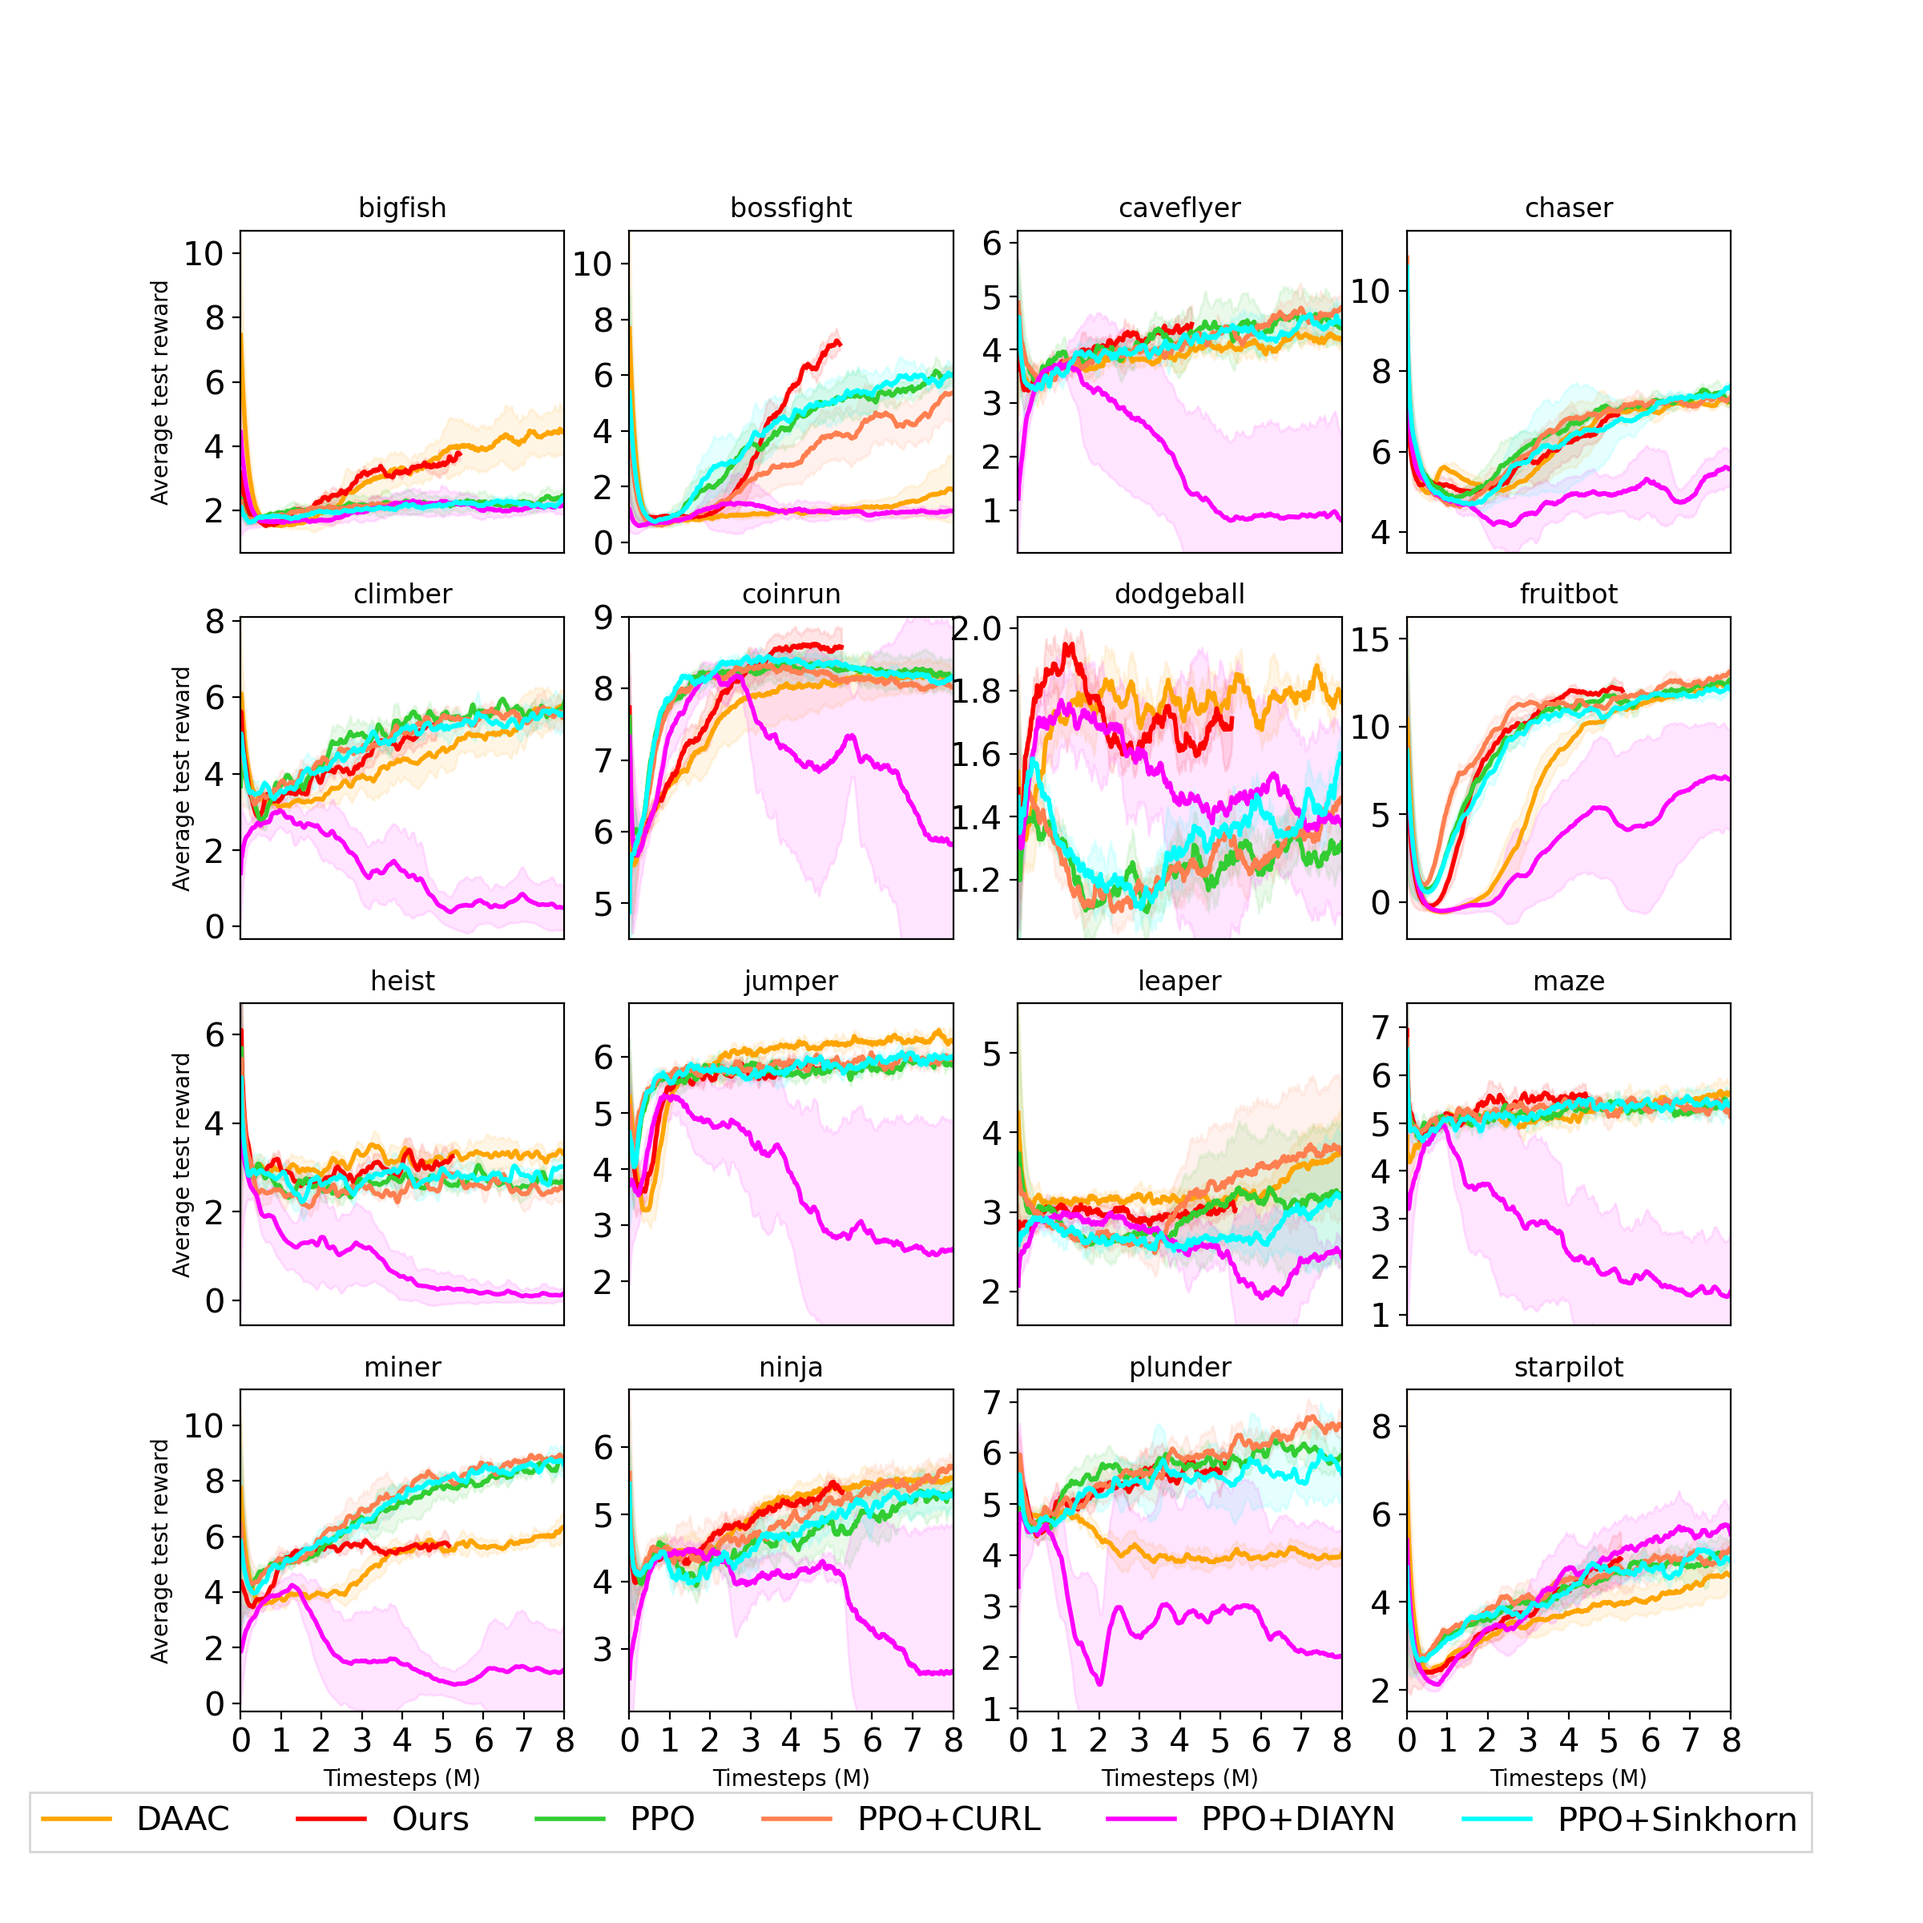
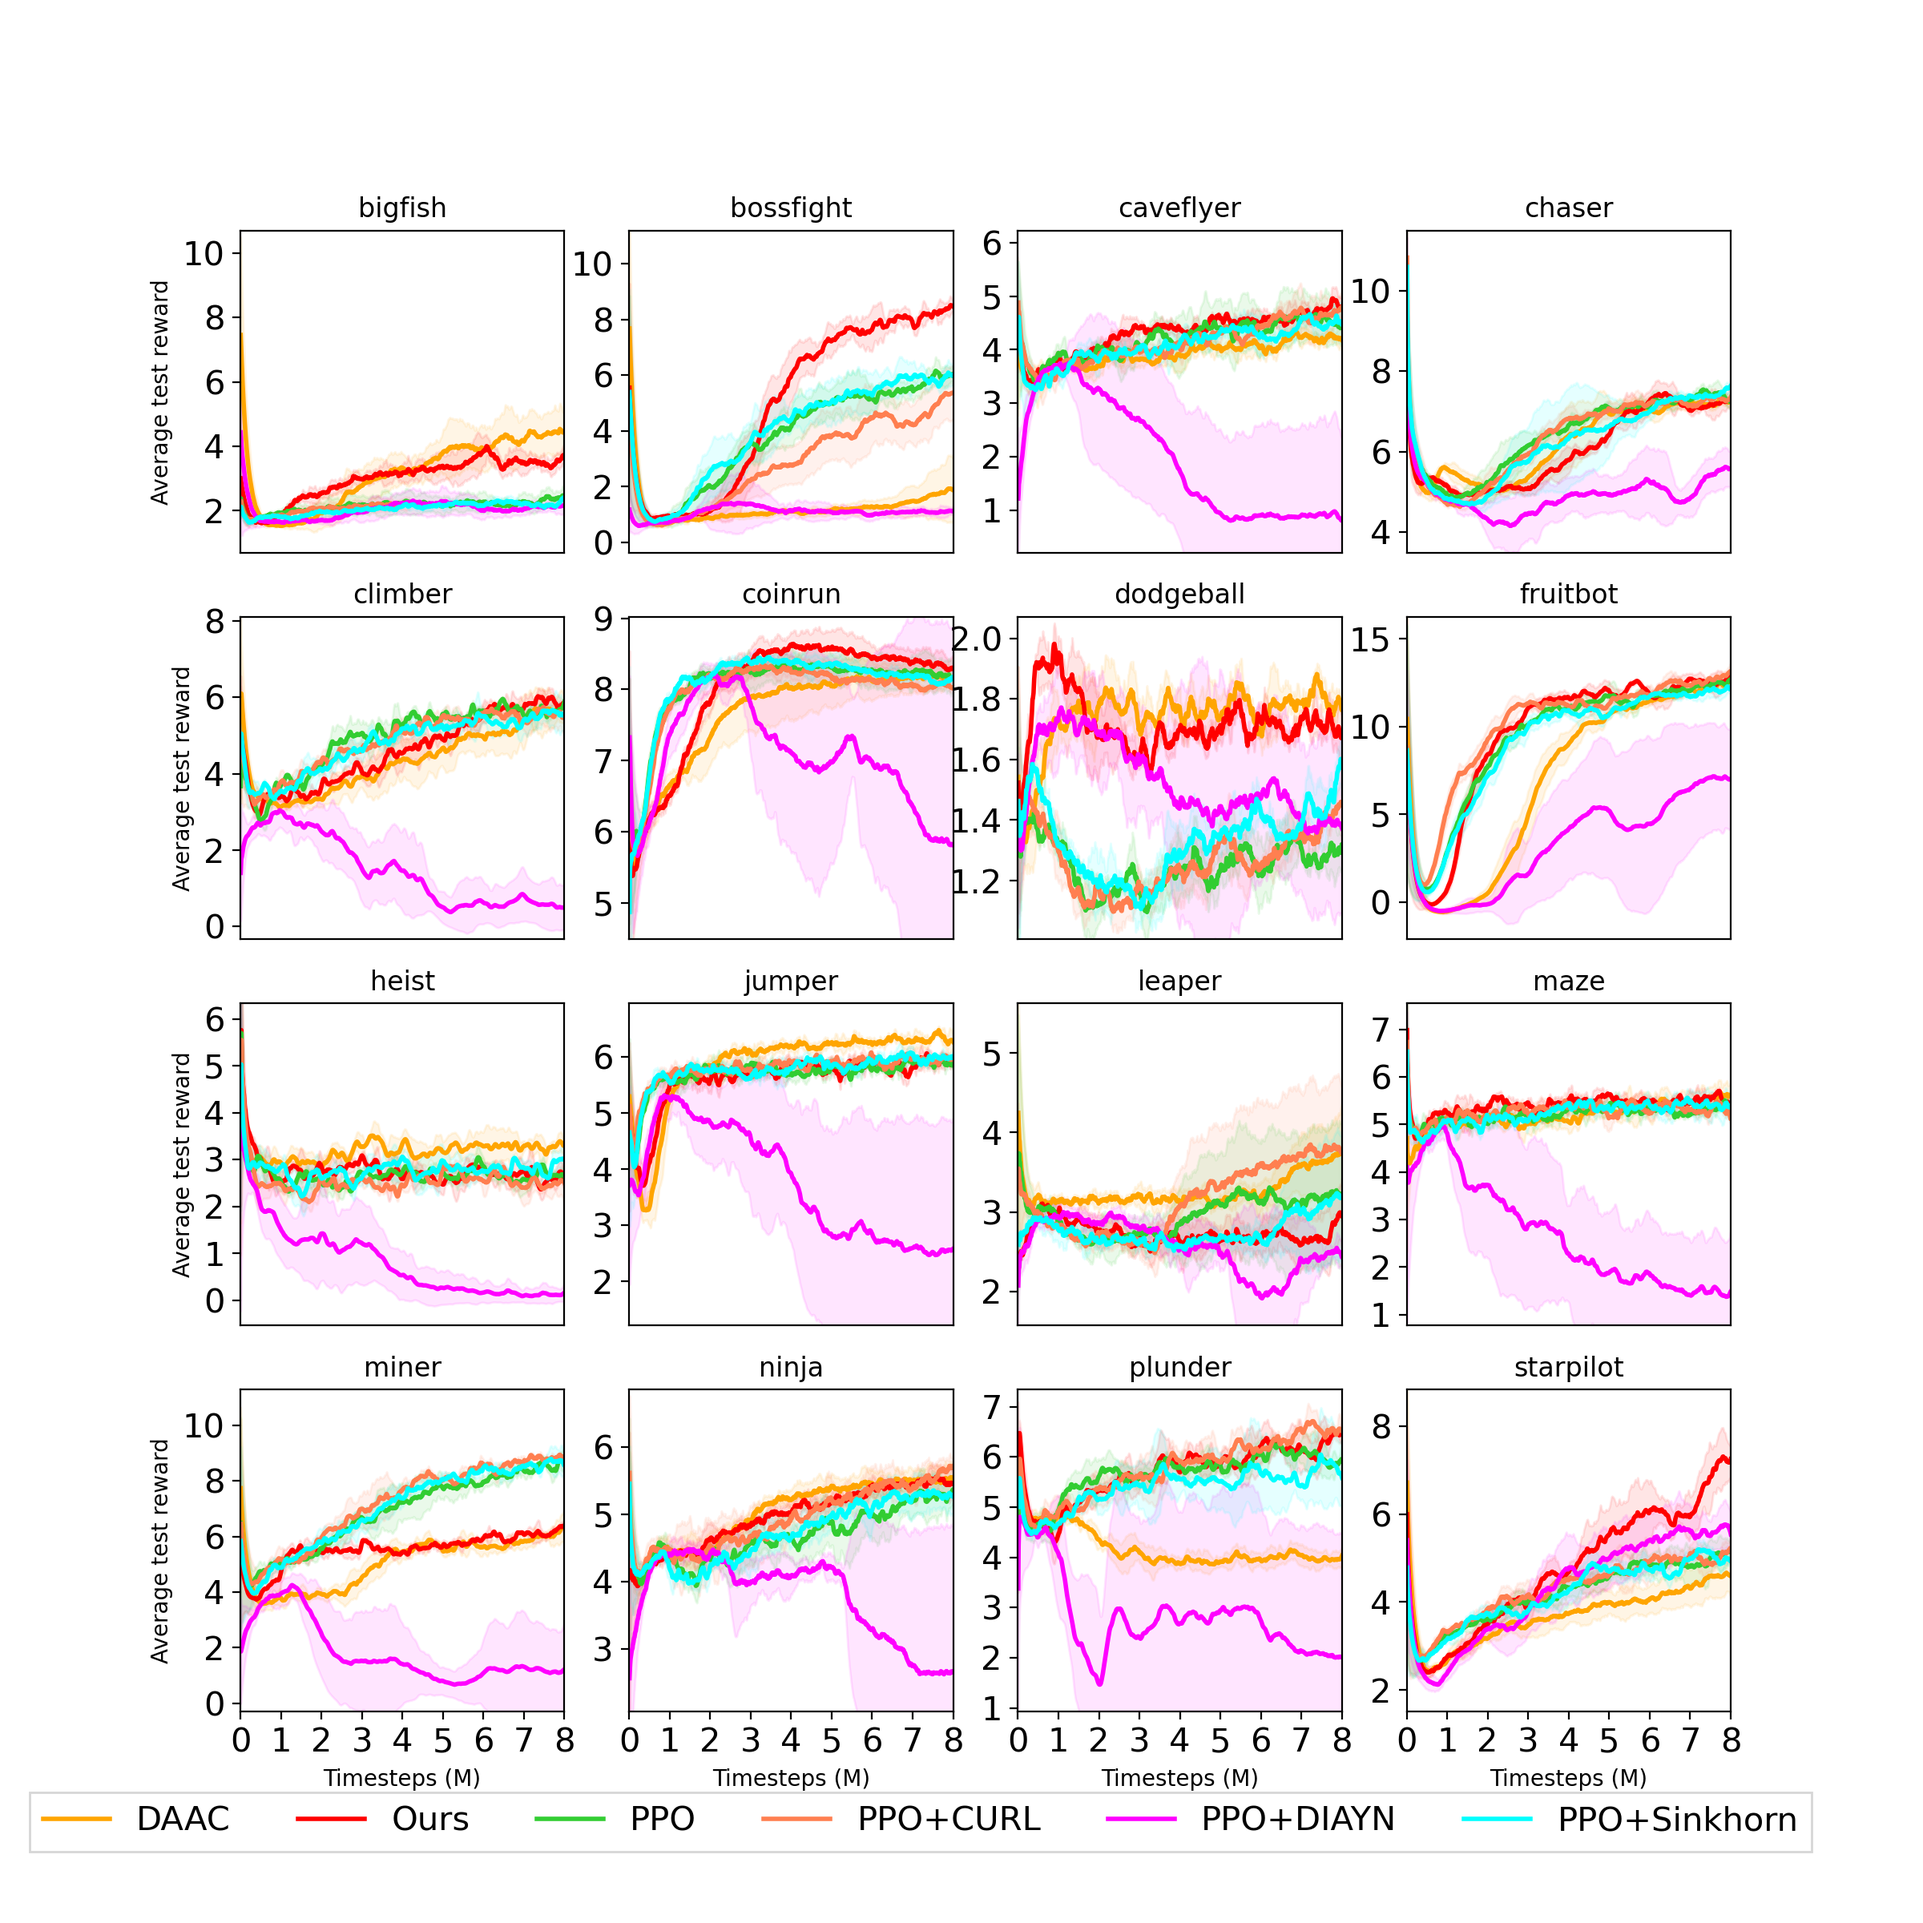
fixed small typo

diff --git a/coinrun/coinrun/ppo2_goal_bogdan.py b/coinrun/coinrun/ppo2_goal_bogdan.py
@@ -894,14 +894,14 @@ def learn(*, policy, env, eval_env, nsteps, total_timesteps, ent_coef, lr,
             print('Clustering phase')
             for _ in range(E_clustering):
                 np.random.shuffle(rep_inds)
-                inds_2d = np.random.uniform(size=(Config.NUM_STEPS)).argsort()
+                # inds_2d = np.random.uniform(size=(Config.NUM_STEPS)).argsort()
+                inds_2d = np.arange(Config.NUM_STEPS)
                 for start in range(0, Config.NUM_STEPS, N_BATCH_AUX):
                     print('Minibatch clustering ',start)
                     sess.run([model.train_model.train_dropout_assign_ops])
                     end = min(start + N_BATCH_AUX, Config.NUM_STEPS)
                     mbinds = inds_2d[start:end]
                     slices = (arr[mbinds] for arr in (sf01(rep_obs), sf01(returns[:,representation_idx]), sf01(returns_i[:,representation_idx]), sf01(masks[:,representation_idx]), sf01(actions[:,representation_idx]), sf01(values[:,representation_idx]), sf01(values_i[:,representation_idx]), sf01(skill[:,representation_idx]), sf01(neglogpacs[:,representation_idx])))
-
                     obs_subsampled_cluster = sf01(repeat_first_el(rep_obs[:,representation_idx][mbinds],CLUSTER_T)) #rep_obs.reshape(-1,64,64,3)[mbinds]
                     act_subsampled_cluster = sf01(repeat_first_el(actions[:,representation_idx][mbinds],CLUSTER_T))
                     r_cluster = returns[:,representation_idx].reshape(-1)[mbinds]
@@ -918,7 +918,8 @@ def learn(*, policy, env, eval_env, nsteps, total_timesteps, ent_coef, lr,
             print('MYOW phase')
             for _ in range(E_MYOW):
                 np.random.shuffle(rep_inds)
-                inds_2d = np.random.uniform(size=(Config.NUM_STEPS)).argsort()
+                # inds_2d = np.random.uniform(size=(Config.NUM_STEPS)).argsort()
+                inds_2d = np.arange(Config.NUM_STEPS)
                 for start in range(0, Config.NUM_STEPS, N_BATCH_AUX):
                     print('Minibatch MYOW ',start)
                     sess.run([model.train_model.train_dropout_assign_ops])

diff --git a/coinrun/coinrun/wandb_scripts/B__main_results.py b/coinrun/coinrun/wandb_scripts/B__main_results.py
@@ -14,7 +14,10 @@ from download_wandb_data import load_WandB_csvs
 AGENTS = ["ppo_goal_bogdan","ppo",'ppo_diayn',"ppo_curl",'ppo_skrl',"ppg"]
 CLEAN_NAMES_AGENTS = ['Ours',"PPO",'PPO+DIAYN',"PPO+CURL",'PPO+Sinkhorn',"DAAC"]
 
-selected_run_ids = {    'ppo_goal_bogdan':'(.*Apr30_normUt__10__3__0.300000__200.*)|(.*skrl.*)', # jointSKMYOW__2__3__0.300000__200
+selected_run_ids = {    
+                        # 'ppo_goal_bogdan':'(.*jointSKMYOW__2__3__0.300000__200.*)|(.*skrl.*)', 
+                        # 'ppo_goal_bogdan':'(.*normUt__2__3__0.500000__200.*)|(.*skrl.*)',
+                        'ppo_goal_bogdan':'(.*meta.*)|(.*skrl.*)',
                         'ppo_goal':'.*',
                         'ppo':'.*',
                         'ppo_diayn':'.*',
